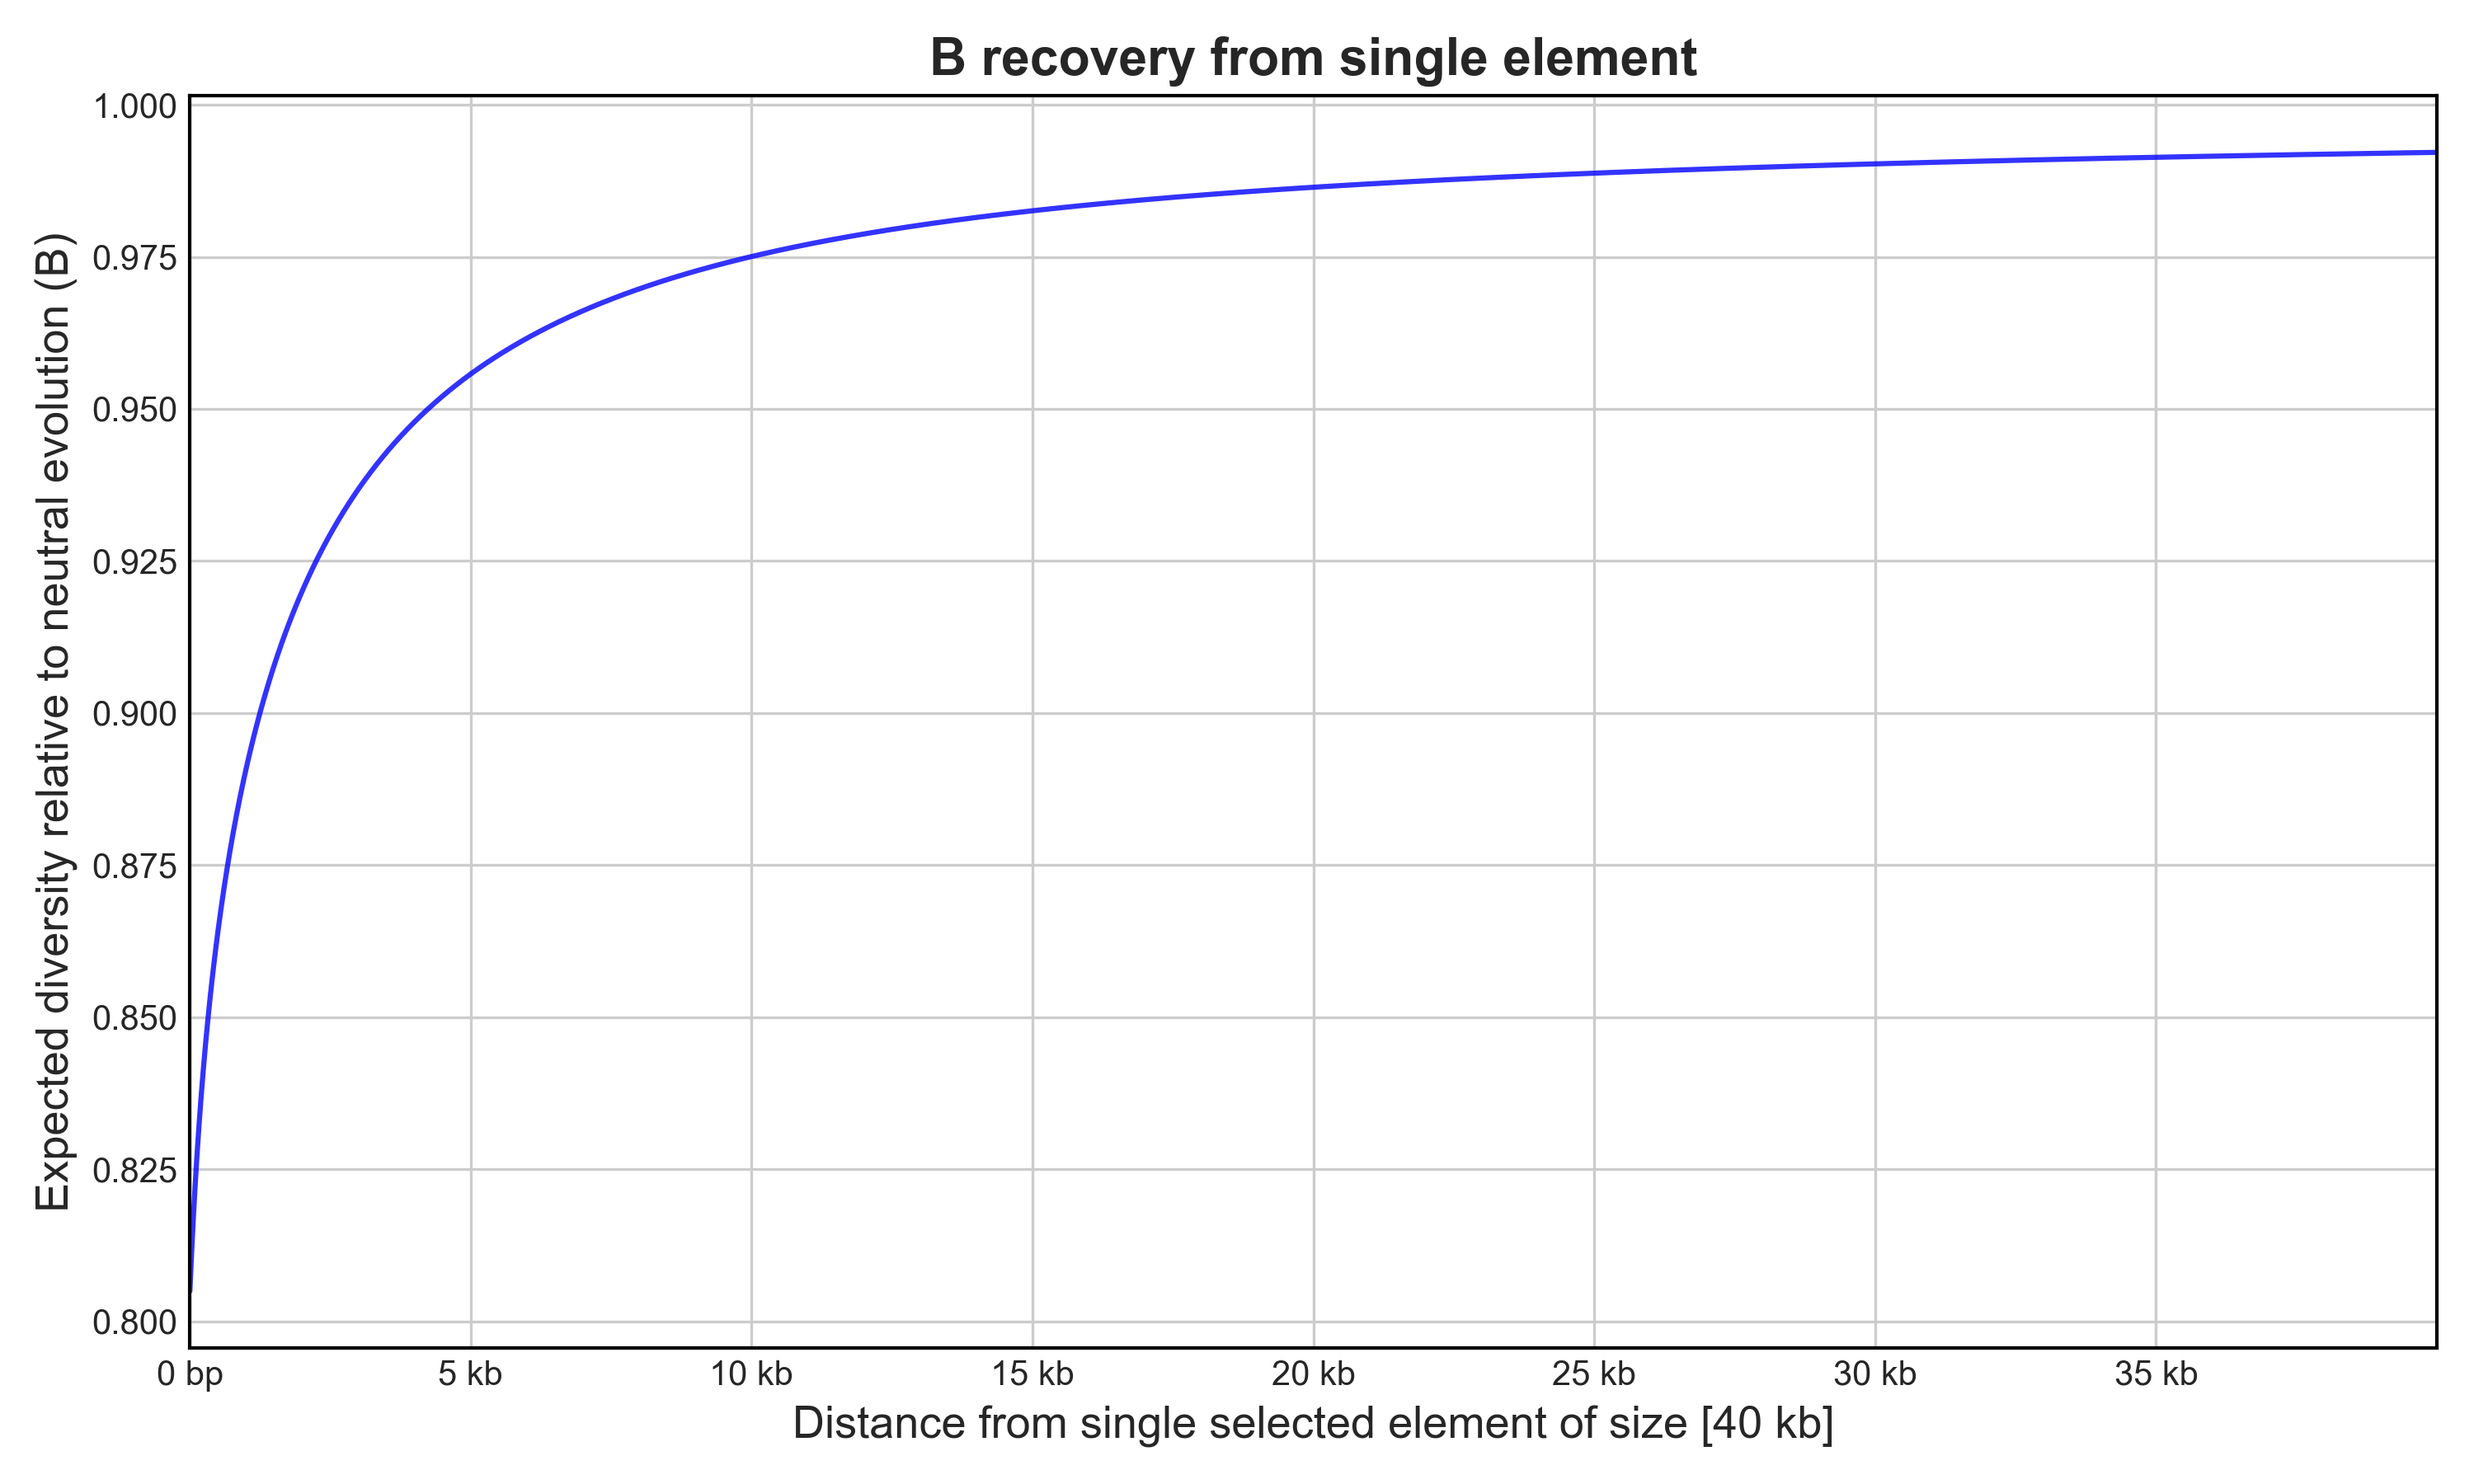
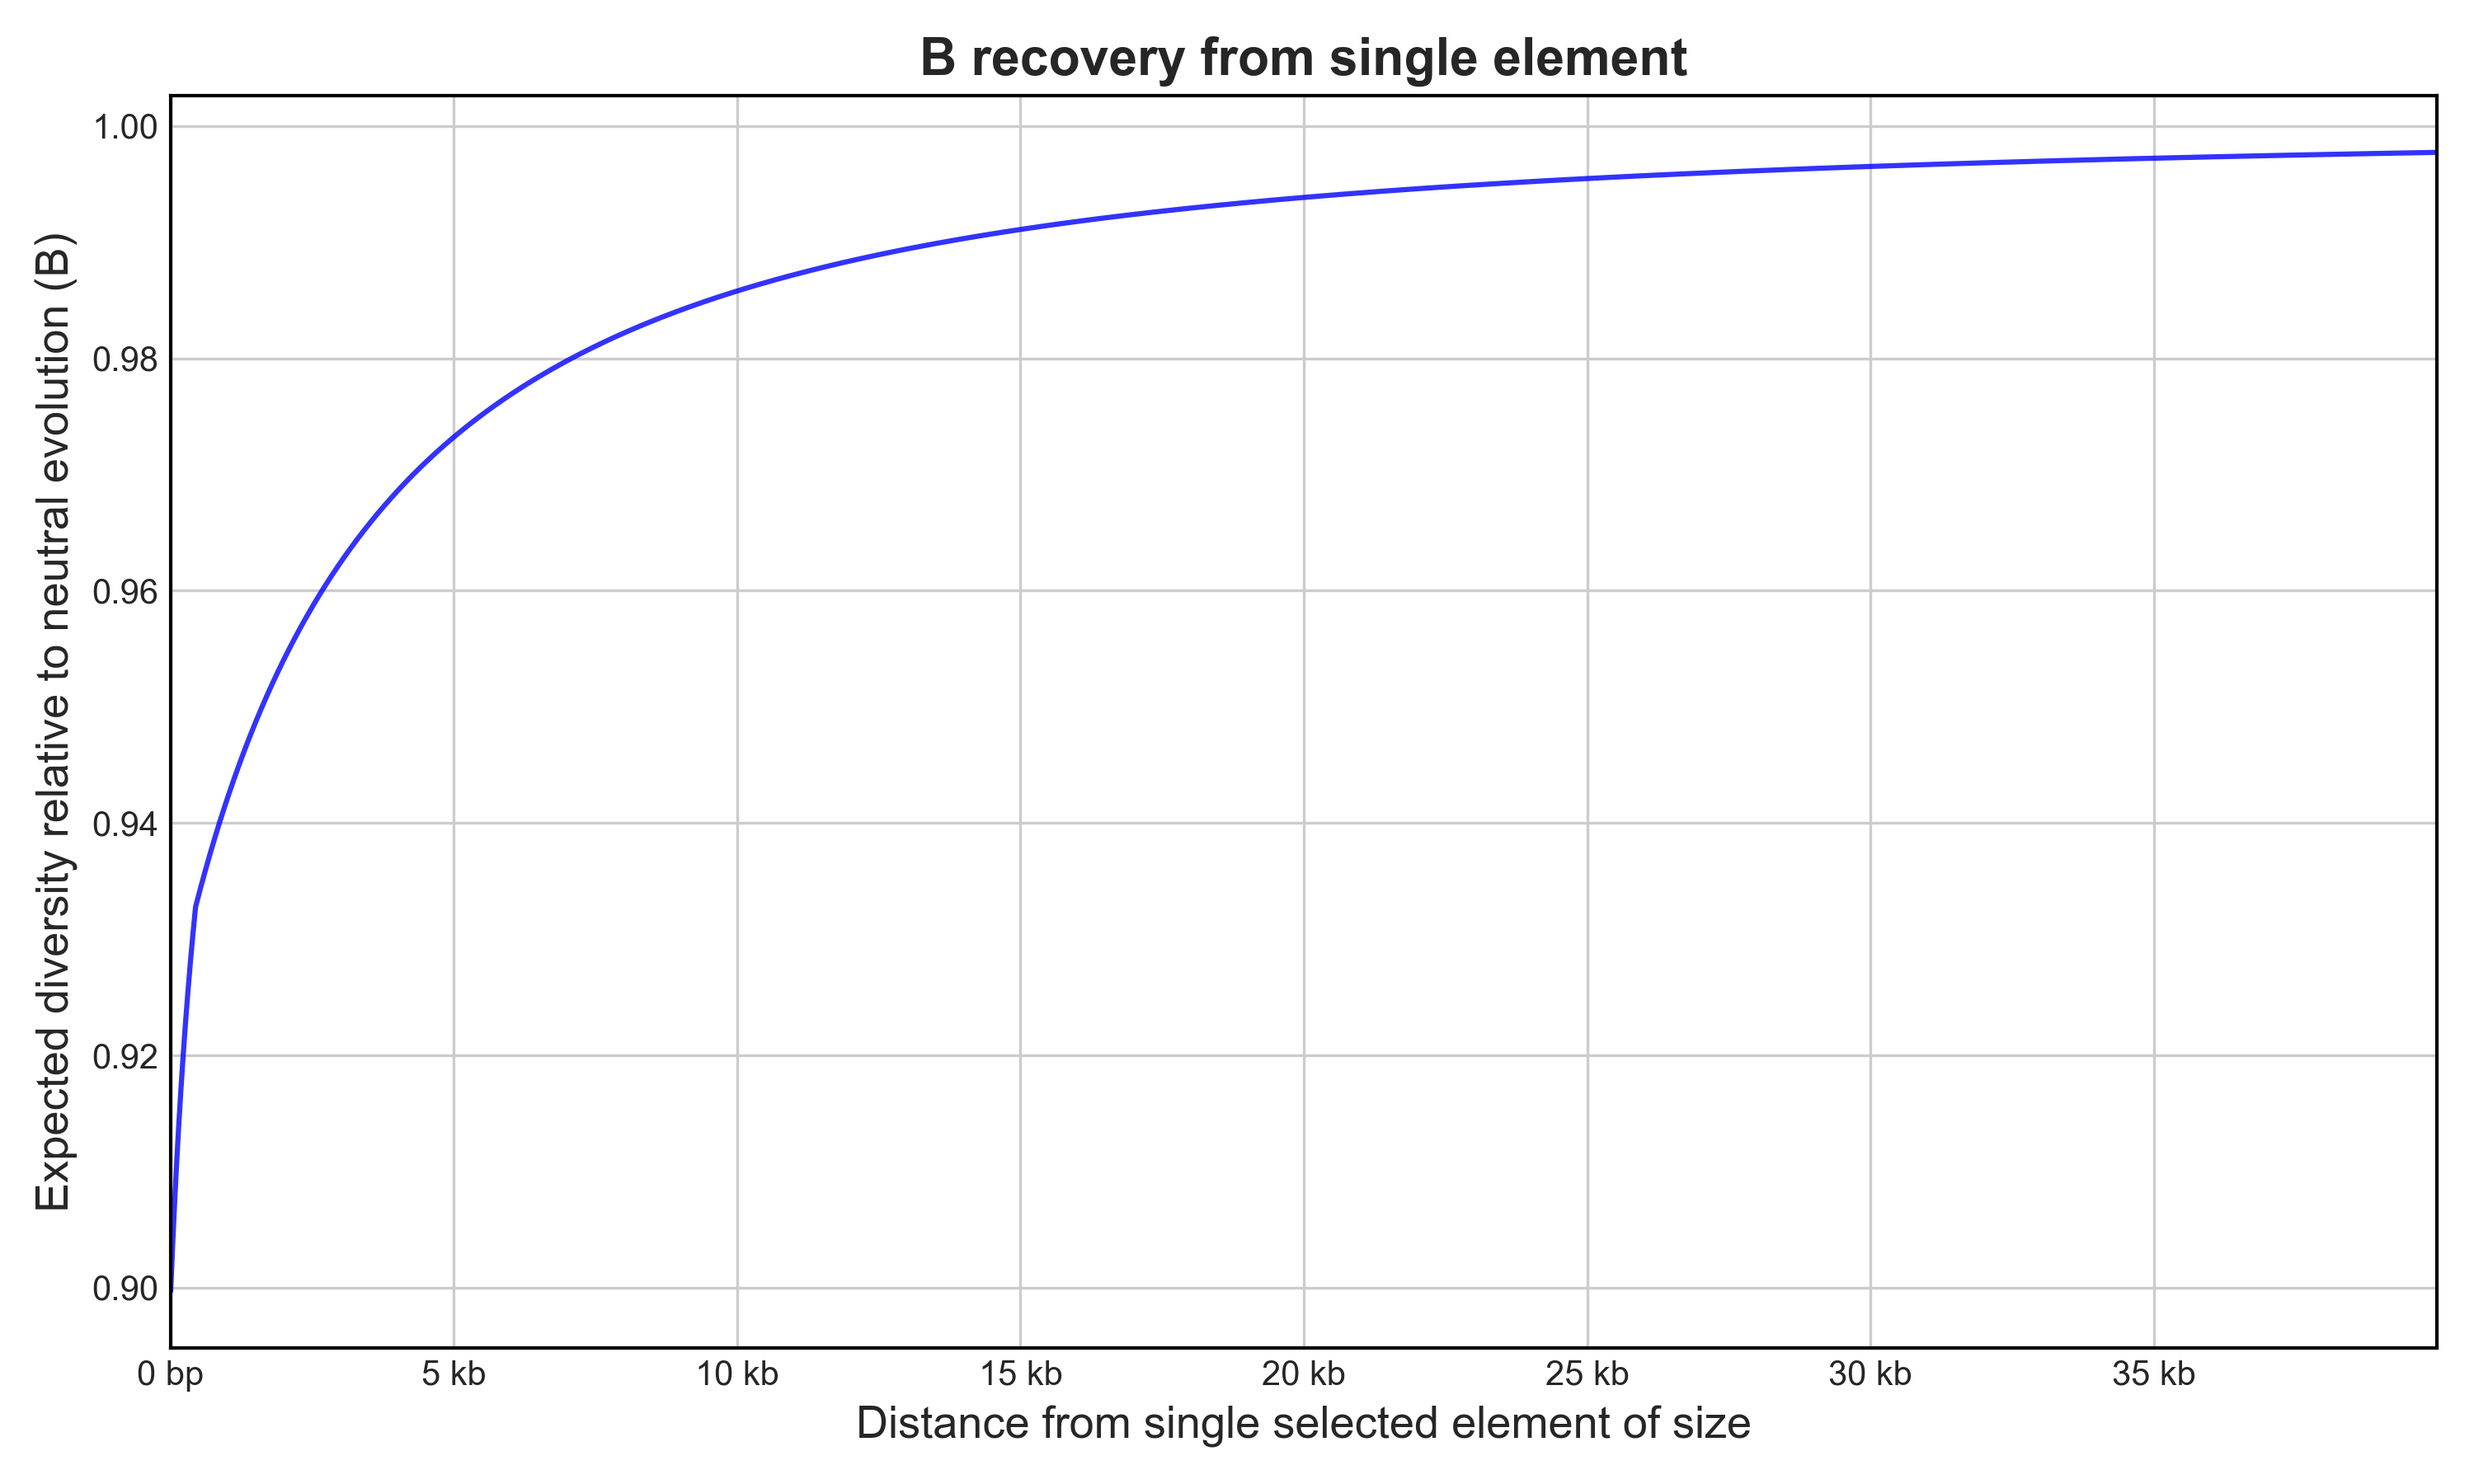
Add cli test for --site

diff --git a/ExampleParams.py b/ExampleParams.py
@@ -7,7 +7,7 @@
 ## Core parameters
 x = 1 # Scaling factor (N,u,r), keep as 1 unless calculating for rescaled simulations
 Nanc = 1e6/x # Ancestral population size
-r = 1*1e-8*x # Recombination (crossover) rate per bp, per generation
+r = 0.5*1e-8*x # Recombination (crossover) rate per bp, per generation
 u = 3*1e-9*x # Mutation rate (all types) per bp, per generation
 g = 1*1e-8*x # Gene conversion initiation rate per bp, per generation
 k = 440 # Gene conversion tract length (bp)
@@ -17,10 +17,10 @@ Ncur = Nanc # Current population size (!Requires --pop_change)
 time_of_change = 1 # Time in 2Ncur generations ago that effective population size went from Nanc to Ncur (!Requires --pop_change)
 
 # Distribution of fitness effects (DFE) parameters (Must equal 1)
-f0 = 0.25 #(*Proportion of effectively neutral mutations with 0 <= |2Nes| < 1 *) 0.25
-f1 = 0.49 #(*Proportion of weakly deleterious mutations with 1 <= |2Nes| < 10 *) 0.6533 0.49
-f2 = 0.04 #(*Proportion of moderately deleterious mutations with 10 <= |2Nes| < 100 *) 0.0533 0.04
-f3 = 0.22 #(*Proportion of strongly deleterious mutations with |2Nes| >= 100 *) 0.2933 0.22
+f0 = 0.1 #(*Proportion of effectively neutral mutations with 0 <= |2Nes| < 1 *) 0.25
+f1 = 0.2 #(*Proportion of weakly deleterious mutations with 1 <= |2Nes| < 10 *) 0.6533 0.49
+f2 = 0.3 #(*Proportion of moderately deleterious mutations with 10 <= |2Nes| < 100 *) 0.0533 0.04
+f3 = 0.4 #(*Proportion of strongly deleterious mutations with |2Nes| >= 100 *) 0.2933 0.22
 
 ## Advanced DFE parameters
 gamma_cutoff = 5 # 2Ns threshold for effectively neutral alleles, mutations below this threshold will be ignored in B calculation. Keep as 5 unless theory suggests otherwise.

diff --git a/tests/testparams/LowRParams.py b/tests/testparams/LowRParams.py
@@ -7,7 +7,7 @@
 ## Core parameters
 x = 1 # Scaling factor (N,u,r), keep as 1 unless calculating for rescaled simulations
 Nanc = 1e6/x # Ancestral population size
-r = 1*1e-8*x # Recombination (crossover) rate per bp, per generation
+r = 0.5*1e-8*x # Recombination (crossover) rate per bp, per generation
 u = 3*1e-9*x # Mutation rate (all types) per bp, per generation
 g = 1*1e-8*x # Gene conversion initiation rate per bp, per generation
 k = 440 # Gene conversion tract length (bp)
@@ -17,10 +17,10 @@ Ncur = Nanc # Current population size (!Requires --pop_change)
 time_of_change = 1 # Time in 2Ncur generations ago that effective population size went from Nanc to Ncur (!Requires --pop_change)
 
 # Distribution of fitness effects (DFE) parameters (Must equal 1)
-f0 = 0.25 #(*Proportion of effectively neutral mutations with 0 <= |2Nes| < 1 *) 0.25
-f1 = 0.49 #(*Proportion of weakly deleterious mutations with 1 <= |2Nes| < 10 *) 0.6533 0.49
-f2 = 0.04 #(*Proportion of moderately deleterious mutations with 10 <= |2Nes| < 100 *) 0.0533 0.04
-f3 = 0.22 #(*Proportion of strongly deleterious mutations with |2Nes| >= 100 *) 0.2933 0.22
+f0 = 0.1 #(*Proportion of effectively neutral mutations with 0 <= |2Nes| < 1 *) 0.25
+f1 = 0.2 #(*Proportion of weakly deleterious mutations with 1 <= |2Nes| < 10 *) 0.6533 0.49
+f2 = 0.3 #(*Proportion of moderately deleterious mutations with 10 <= |2Nes| < 100 *) 0.0533 0.04
+f3 = 0.4 #(*Proportion of strongly deleterious mutations with |2Nes| >= 100 *) 0.2933 0.22
 
 ## Advanced DFE parameters
 gamma_cutoff = 5 # 2Ns threshold for effectively neutral alleles, mutations below this threshold will be ignored in B calculation. Keep as 5 unless theory suggests otherwise.

diff --git a/Bvalcalc.py b/Bvalcalc.py
@@ -26,12 +26,14 @@ def main():
             plotBasic(b_values_input=output_data, caller="genome", output_path=args.plot_output, silent=args.silent, genes=block_ranges)
     elif known_args.region: # Run region Bcalc
         args = parseRegionArgs(remaining_args)
+        os.environ["BCALC_POP_PARAMS"] = args.pop_params  # Handle Params file
         from helperScripts.regionBcalc import regionBcalc
         output_data = regionBcalc(args) # Capture the output from regionBcalc
         if getattr(args, 'plot_output', False): # If the --plot_basic flag was provided, call plotBasic with regionBcalc's output.
             plotBasic(b_values_input=output_data, caller="region", output_path=args.plot_output, silent=args.silent)
     elif known_args.site: # Run single site Bcalc
         args = parseSiteArgs(remaining_args)
+        os.environ["BCALC_POP_PARAMS"] = args.pop_params  # Handle Params file
         from helperScripts.siteBcalc import siteBcalc
         siteBcalc(args)
         sys.exit()

diff --git a/tests/test_cli.py b/tests/test_cli.py
@@ -1,0 +1,21 @@
+import subprocess
+import sys
+from pathlib import Path
+
+def test_cli_site_basic():
+    script = Path(__file__).resolve().parents[1] / "Bvalcalc.py"
+    params = Path(__file__).resolve().parent / "testparams" / "LowRParams.py"
+
+    result = subprocess.run(
+        [sys.executable, str(script),
+         "--site",
+         "--pop_params", str(params),
+         "--distance", "100",
+         "--gene_size", "5000"],
+        capture_output=True,
+        text=True
+    )
+
+    assert result.returncode == 0, f"CLI failed:\n{result.stderr}"
+    assert "B for site 100bp away from 5000bp region:" in result.stdout
+    assert "0.9294346764091733" in result.stdout
